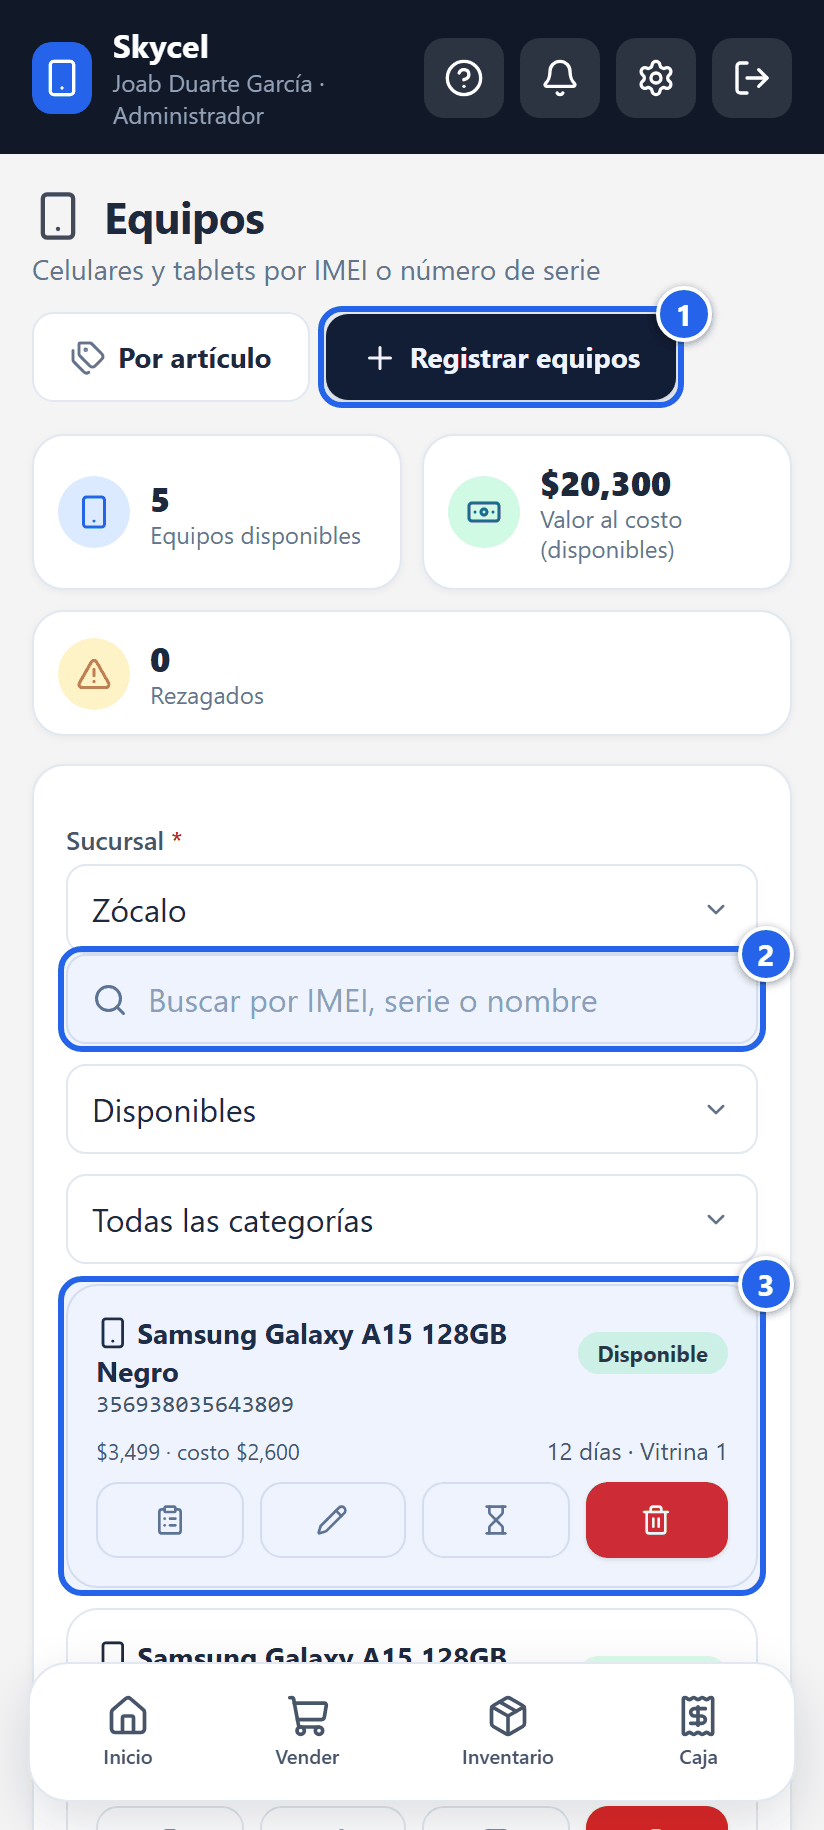
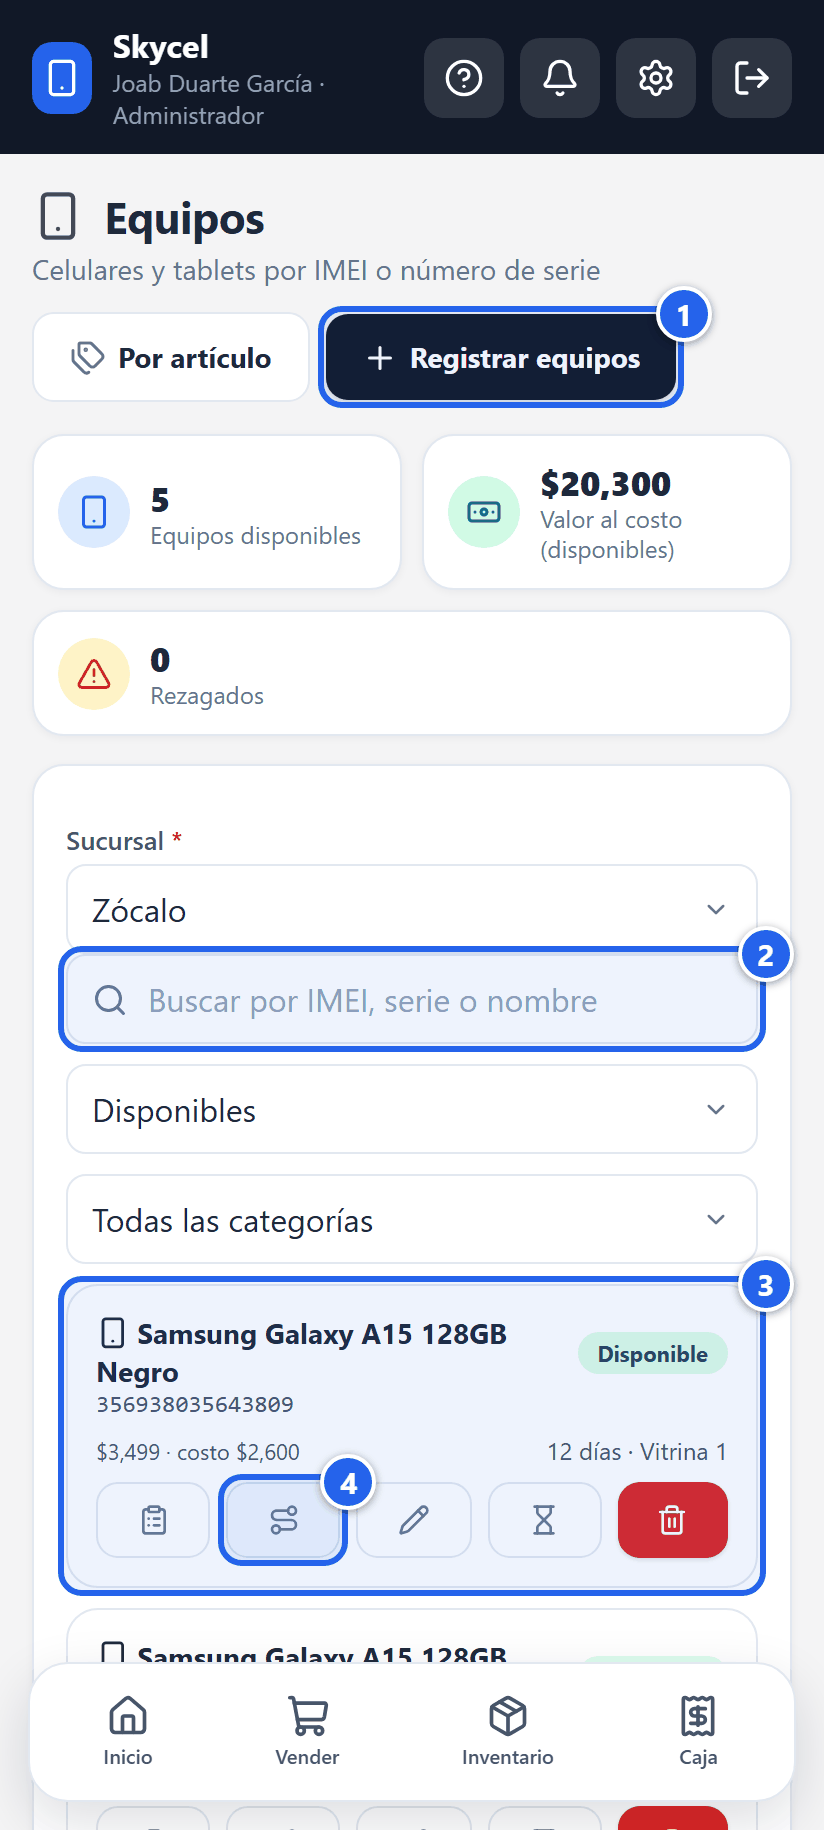
Manual: capturas adicionales del Rastreo (equipo reactivado) y de Equipos con el icono de ruta y Reactivar; etiqueta de dias en inventario mas corta

diff --git a/src/main/resources/static/app/js/rastro.js b/src/main/resources/static/app/js/rastro.js
@@ -75,7 +75,7 @@ async function pantallaRastro(imeiInicial) {
         <p style="margin:8px 0 0;">${escapar(rastroTextoHoy(e))}</p>
       </div>
       <div class="kp-h">
-        ${kpiH('c1', 'history', r.diasEnInventario == null ? '—' : r.diasEnInventario, r.vendido ? 'Días en inventario (hasta su venta)' : 'Lleva en inventario')}
+        ${kpiH('c1', 'history', r.diasEnInventario == null ? '—' : r.diasEnInventario, r.vendido ? 'Días en inventario (hasta su venta)' : 'Días en inventario (hasta hoy)')}
         ${kpiH('c5', 'truck', r.traspasos, 'Traspasos')}
         ${kpiH('c4', 'shield-check', r.garantias, 'Garantías')}
       </div>

diff --git a/src/main/resources/static/app/sw.js b/src/main/resources/static/app/sw.js
@@ -3,7 +3,7 @@
  * sin conexión; los datos (todo /api/...) siempre van a la red — nunca se sirven de la caché, para no mostrar
  * información vieja o mandar peticiones fuera de línea que parezcan haber funcionado.
  */
-const CACHE = 'skycel-app-v69';
+const CACHE = 'skycel-app-v70';
 const ARCHIVOS = [
   '/app', '/app/',
   '/app/index.html',

diff --git a/ops/manual/construir_manuales.py b/ops/manual/construir_manuales.py
@@ -519,13 +519,15 @@ Cada equipo con su IMEI, el artículo, su condición (**nuevo**, **seminuevo** o
 @@L - **①** **Buscador** por IMEI, serie o nombre.
 @@L - **②** **Filtros** de estado (por omisión, **Disponibles**) y de categoría.
 @@L - **③** **Registrar equipos:** da de alta unidades nuevas (un IMEI por línea).
-@@L - **④** **Acciones de cada equipo:** copiar el IMEI, editar (administrador), marcar como **rezagado** y dar de baja.
+@@L - **④** **Acciones de cada equipo:** copiar el IMEI, **rastrearlo** (el icono de ruta), editar (administrador), marcar como **rezagado** y dar de baja.
 @@L - **⑤** **Por artículo:** el resumen de cuántos hay de cada modelo.
+@@L - **⑥** **Reactivar equipo** (administrador): busca un IMEI que ya existe en el sistema y lo deja disponible en la sucursal que elijas.
 
 @@WEB web-equipos.png | Los equipos de la sucursal.@@
 @@WL - **①** **Registrar equipos:** da de alta uno o varios por su IMEI o serie.
 @@WL - **②** **Buscador** por IMEI, serie o nombre.
 @@WL - **③** **Un equipo:** su estado, precio, costo, días en existencia y sección. Sus botones sirven para ver su historial, corregirlo, marcarlo rezagado o darlo de baja.
+@@WL - **④** **El icono de ruta** abre el **Rastreo** de ese equipo.
 
 ### Registrar equipos
 1. Pulsa **Registrar equipos** y elige el **artículo**. Si es un modelo o color nuevo, primero se registra en Inventario › Nuevo producto, con la categoría Equipos.
@@ -668,6 +670,11 @@ La **historia completa de un equipo** (celular o tablet), desde que entra al sis
 @@L - **③** **Los números:** los días que estuvo en inventario (hasta su venta; si no se ha vendido, los que lleva), sus traspasos y sus garantías, y el **recorrido** por las tiendas.
 @@L - **④** **Lo que le ha pasado,** en orden y con fecha y hora: cuándo ingresó y por qué compra, cada traspaso (de qué tienda salió y a cuál llegó), la venta (a quién, quién lo atendió y a qué precio), devoluciones, garantías, bajas y reactivaciones. Cada renglón dice quién lo registró.
 
+@@IMG rastro2.png | Un equipo que se dio de baja por error y se reactivó en otra tienda.@@
+@@L - **①** **La ficha:** hoy está disponible en Corpo.
+@@L - **②** **El recorrido:** Bodega central, Zócalo y Corpo.
+@@L - **③** **La baja y la reactivación:** quedan anotadas con quién las hizo y por qué.
+
 @@WEB web-rastreo.png | El rastreo de un equipo en el celular.@@
 @@WL - **①** **Buscador:** el IMEI o el número de serie.
 @@WL - **②** **La ficha:** el artículo, su estado y dónde está hoy.
@@ -676,6 +683,10 @@ La **historia completa de un equipo** (celular o tablet), desde que entra al sis
 @@WEB web-rastreo-linea.png | El recorrido y la línea del tiempo.@@
 @@WL - **①** **Recorrido:** las tiendas por las que pasó, en orden.
 @@WL - **②** **Lo que le ha pasado:** del ingreso a la venta y la garantía, con fecha, hora y quién lo registró.
+
+@@WEB web-rastreo-reactivado.png | Un equipo dado de baja por error y reactivado en otra tienda.@@
+@@WL - **①** **Recorrido:** pasó por tres tiendas.
+@@WL - **②** **La baja y la reactivación** quedan en la línea, con quién las hizo y el motivo.
 
 ### Cosas que conviene saber
 - Un equipo que se registró antes de que existiera este historial empieza con **«Se registró en el sistema»**: lo anterior no se puede reconstruir.

diff --git a/src/main/resources/static/app/ayuda/manual.md b/src/main/resources/static/app/ayuda/manual.md
@@ -285,6 +285,7 @@ Cada equipo con su IMEI, el artículo, su condición (**nuevo**, **seminuevo** o
 - **①** **Registrar equipos:** da de alta uno o varios por su IMEI o serie.
 - **②** **Buscador** por IMEI, serie o nombre.
 - **③** **Un equipo:** su estado, precio, costo, días en existencia y sección. Sus botones sirven para ver su historial, corregirlo, marcarlo rezagado o darlo de baja.
+- **④** **El icono de ruta** abre el **Rastreo** de ese equipo.
 
 ### Registrar equipos
 1. Pulsa **Registrar equipos** y elige el **artículo**. Si es un modelo o color nuevo, primero se registra en Inventario › Nuevo producto, con la categoría Equipos.
@@ -311,6 +312,7 @@ La **historia completa de un equipo** (celular o tablet), desde que entra al sis
 3. También puedes llegar desde **Equipos**: el icono de **ruta** de cada equipo abre su rastreo.
 
 
+
 ![El rastreo de un equipo en el celular.](img/web-rastreo.png)
 - **①** **Buscador:** el IMEI o el número de serie.
 - **②** **La ficha:** el artículo, su estado y dónde está hoy.
@@ -319,6 +321,10 @@ La **historia completa de un equipo** (celular o tablet), desde que entra al sis
 ![El recorrido y la línea del tiempo.](img/web-rastreo-linea.png)
 - **①** **Recorrido:** las tiendas por las que pasó, en orden.
 - **②** **Lo que le ha pasado:** del ingreso a la venta y la garantía, con fecha, hora y quién lo registró.
+
+![Un equipo dado de baja por error y reactivado en otra tienda.](img/web-rastreo-reactivado.png)
+- **①** **Recorrido:** pasó por tres tiendas.
+- **②** **La baja y la reactivación** quedan en la línea, con quién las hizo y el motivo.
 
 ### Cosas que conviene saber
 - Un equipo que se registró antes de que existiera este historial empieza con **«Se registró en el sistema»**: lo anterior no se puede reconstruir.
